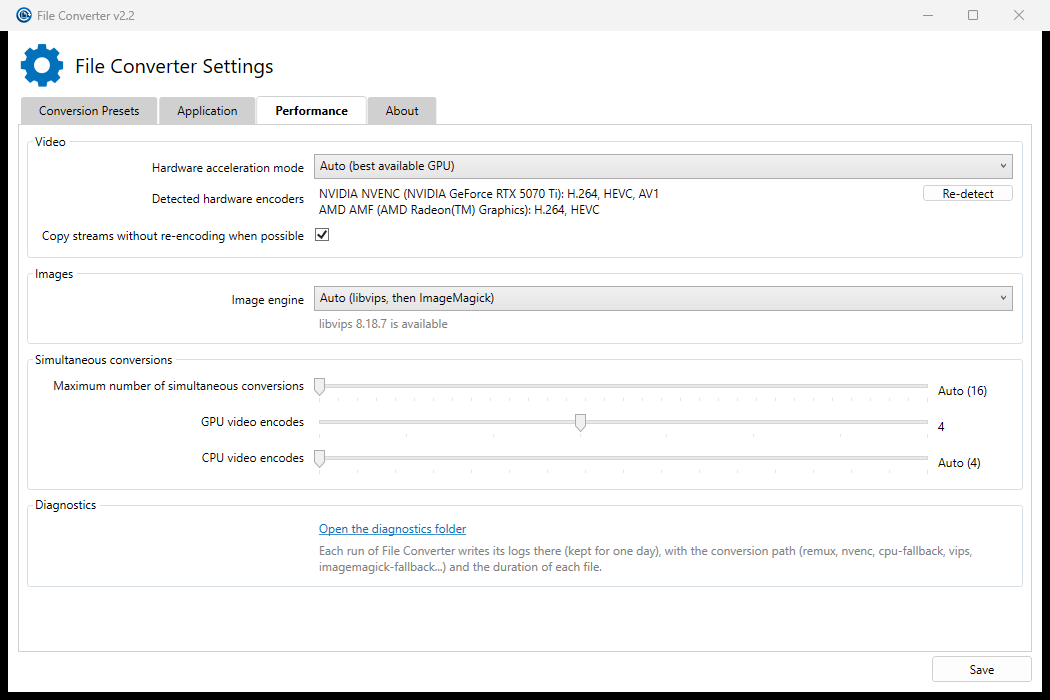
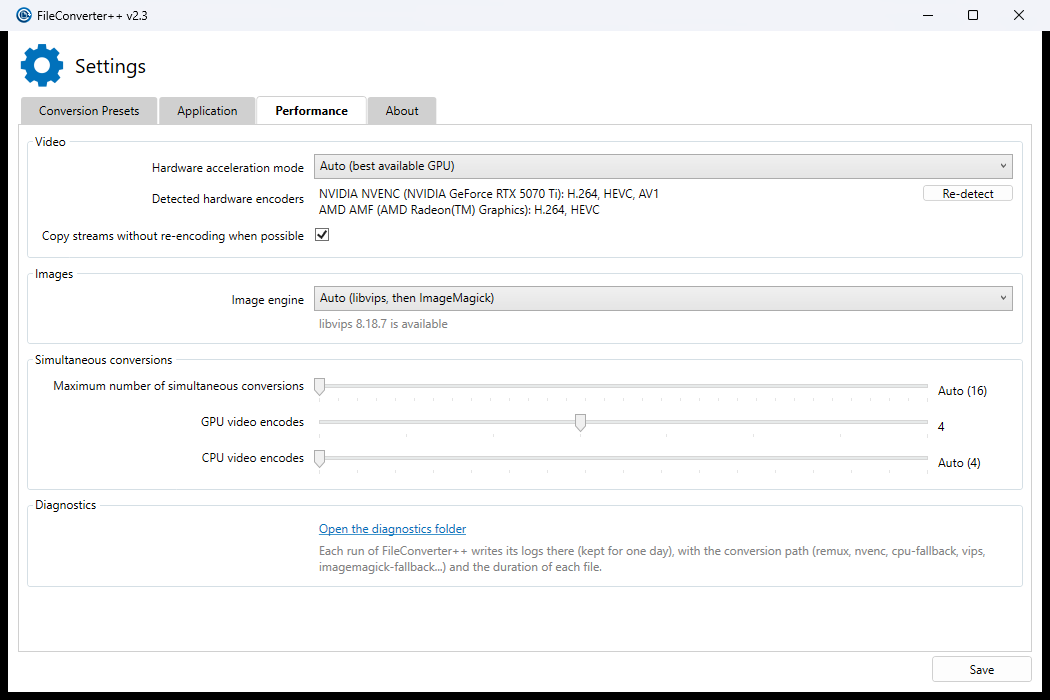
README: present FileConverter++ and what it changes from File Converter
Comparison table, benchmark results (and what isn't faster), each change
in plain words with links to docs/, fixes, security updates, install /
upgrade from File Converter, developer pointers; the original README's
sections follow, credited. Performance tab screenshot retaken with the
FileConverter++ name.

Changed region(s): [[0.3657, 0.78, 0.9448, 0.81], [0.061, 0.09, 0.2743, 0.12], [0.0305, 0.0, 0.1524, 0.03]]

diff --git a/README.md b/README.md
@@ -1,40 +1,133 @@
 # FileConverter++
 
-## Description
-
-**FileConverter++** is a faster fork of [File Converter](https://github.com/Tichau/FileConverter) by Adrien Allard: a very simple tool which allows you to convert and compress one or several file(s) using the context menu of windows explorer.
+**FileConverter++ is a faster version of [File Converter](https://github.com/Tichau/FileConverter)**, the tool by Adrien Allard that converts and compresses files from the Windows Explorer right-click menu. It works exactly the same way, with the same presets and settings, but uses your graphics card for videos, avoids re-encoding when it isn't needed, uses a much faster image engine and converts many files at once. On the benchmark below it is **2.5 times faster on average, and up to 35 times faster**.
 
 ![FileConverter++ Usage](Resources/FileConverterUsage.gif)
 
-Releases: [github.com/SwatX18/FileConverter/releases](https://github.com/SwatX18/FileConverter/releases). The original File Converter is at [file-converter.io](https://file-converter.io/?from=readme.md).
+**[Download FileConverter++ (latest release)](https://github.com/SwatX18/FileConverter/releases/latest)** · Windows 10/11, 64-bit · free and open source (GPL-3.0)
 
-The presets and their settings work as in File Converter: see its [wiki](https://github.com/Tichau/FileConverter/wiki).
+- [FileConverter++ vs. File Converter at a glance](#fileconverter-vs-file-converter-at-a-glance)
+- [How much faster?](#how-much-faster)
+- [What changed, in detail](#what-changed-in-detail)
+- [Install, upgrade, uninstall](#install-upgrade-uninstall)
+- [For developers](#for-developers)
 
-Installing FileConverter++ replaces File Converter (same installer identity, version 2.3.0 above the official 2.2) and keeps your settings and presets (`%LOCALAPPDATA%\FileConverter`). It installs in `C:\Program Files\FileConverter++` as `FileConverterPlusPlus.exe`, and checks for updates on this repository.
+## FileConverter++ vs. File Converter at a glance
 
-## What FileConverter++ changes
+| | File Converter 2.2 (original) | FileConverter++ 2.3 |
+|---|---|---|
+| Video encoding | CPU only by default (x264, x265) | **Graphics card** (NVIDIA NVENC, AMD AMF, Intel Quick Sync), detected automatically, with the CPU as fallback |
+| mkv → mp4, mov → mp4... | Always re-encodes the video | **Copies the streams** when they fit the new container (seconds instead of minutes, no quality loss) |
+| Images (JPEG, PNG, WebP, TIFF, AVIF) | ImageMagick | **libvips** (1.2 to 2.7 times faster per image, much more in batches), ImageMagick for every other format and as fallback |
+| Several files at once | 2 conversions at a time | **One per CPU core**, with separate limits for GPU encodes, CPU video encodes and Office documents |
+| Long video conversions | Can **hang forever** (ffmpeg blocked) | Fixed |
+| Two files giving the same output name (a.mp4 + a.mkv → Mp3) | One conversion fails | Second output named `a (2).mp3` |
+| PDF conversions | Need the Visual C++ Redistributable installed by another program | Everything included in the installer |
+| Security | Magick.NET 14.10.2 (144 known advisories), Ghostscript 10.02.1 (CVE-2024-29510) | Magick.NET 14.17.2, Ghostscript 10.08.0 |
+| Settings | Application tab | New **Performance** tab: detected GPUs, image engine, limits, diagnostics |
+| Logs | Conversion log | Plus the path each file took (remux, nvenc, cpu-fallback, vips...) and its duration |
+| Video codecs for Mp4 / Mkv presets | H.264 | **H.264, HEVC or AV1** (AV1 when your GPU can encode it) |
+| Tests | — | 168 unit tests, 40 integration tests, a benchmark suite |
 
-FileConverter++ makes conversions faster without changing how File Converter is used. Every optimization falls back automatically to the original behavior when it can't be used, and existing settings files keep working.
+Your presets, settings and right-click menu are the same. Every new behavior can be turned off in Settings → Performance, and every optimization **falls back automatically** to the original behavior: if a faster path can't be used for a file, or fails, the file is converted the original way.
 
-- **Hardware video encoding** (NVIDIA NVENC, AMD AMF, Intel Quick Sync), detected with a test encode and used by default, with the CPU encoder as fallback. Quality settings are calibrated to give the same quality as the CPU encoders. [docs/HARDWARE-ENCODING.md](docs/HARDWARE-ENCODING.md)
-- **Stream copy**: a conversion that only changes the container (mkv to mp4, mov to mp4...) copies the streams instead of re-encoding them. [docs/REMUXING.md](docs/REMUXING.md)
-- **libvips** for JPEG, PNG, WebP, TIFF and AVIF images, ImageMagick for everything else. [docs/IMAGES.md](docs/IMAGES.md)
-- **Parallel scheduling**: one conversion per CPU core, with separate limits for GPU encodes, CPU video encodes and Office documents. [docs/SCHEDULING.md](docs/SCHEDULING.md)
-- **Settings > Performance** tab and per-file diagnostics (conversion path and duration). [docs/SETTINGS.md](docs/SETTINGS.md)
+## How much faster?
 
-Measured on a Ryzen 9 7950X3D with an RTX 5070 Ti, against the original at its default settings ([bench/REPORT.md](bench/REPORT.md)):
+Measured on a Ryzen 9 7950X3D (16 cores) with an RTX 5070 Ti, NVMe SSD, both versions at their default settings, median of 3 runs, including the application start ([full report](bench/REPORT.md)):
 
-| Conversion | Original | This fork |
-|---|---:|---:|
-| Sintel 1080p, 15 min MKV → To Mp4 | 81.5 s | 2.3 s (stream copy) |
-| H.264 4K 30 s → To Mp4 | 20.2 s | 7.1 s (NVENC) |
-| 200 × 24 MP JPEG → Scale 25%/To Webp | 55.8 s | 3.6 s |
-| 10 × 24 MP WebP → To Png | 22.4 s | 4.9 s |
-| 20 × 24 MP JPEG → To Avif | 24.9 s | 10.7 s |
+| Conversion | File Converter | FileConverter++ | Speed-up | How |
+|---|---:|---:|---:|---|
+| Movie, 15 min 1080p MKV → To Mp4 | 81.5 s | **2.3 s** | 35× | stream copy |
+| 200 photos (24 MP JPEG) → Scale 25% / To Webp | 55.8 s | **3.6 s** | 16× | libvips + parallel |
+| 1080p H.264 MP4 → To Mkv | 10.7 s | **1.8 s** | 6× | stream copy |
+| iPhone HEVC 10-bit MOV → To Mp4 | 9.0 s | **1.5 s** | 6× | stream copy |
+| 10 WebP images (24 MP) → To Png | 22.4 s | **4.9 s** | 4.6× | libvips + parallel |
+| 20 photos → To Jpg | 3.6 s | **1.0 s** | 3.6× | libvips + parallel |
+| 4K H.264 30 s → To Mp4 | 20.2 s | **7.1 s** | 2.9× | NVENC |
+| 1080p H.264 MP4 → To Mp4 (re-encode) | 10.7 s | **4.3 s** | 2.5× | NVENC |
+| 20 photos → To Avif | 24.9 s | **10.7 s** | 2.3× | libvips + parallel (and 31 % smaller) |
+| Movie, 15 min MKV → To Mkv (re-encode) | 80.9 s | **36.4 s** | 2.2× | NVENC |
+| 1080p → Scale 720p / To Mp4 | 5.4 s | **2.9 s** | 1.9× | NVENC |
 
-Audio conversions and RAW / HEIC images are unchanged; extracting the audio of a video file takes about 0.3 s more (the file is probed to see whether its audio can be copied). The original also hangs on long video conversions (ffmpeg blocked on its progress output); this is fixed here.
+**Over the 24 benchmark cases: 2.5× faster on average (geometric mean), all 25 cases successful.** The gain depends on your hardware: no supported graphics card means CPU video encoding as before (still with stream copy, libvips and parallel batches), and fewer CPU cores means less parallelism.
 
-Tests: unit tests in `Tests/FileConverter.Tests` (xUnit, in the solution) and integration tests on a test corpus (`Tests/integration.ps1`), see [Tests/README.md](Tests/README.md). Benchmarks: [bench/README.md](bench/README.md).
+**Not faster** (to be honest about it):
+- **Audio conversions** (FLAC → MP3, WAV → FLAC...): unchanged, the encoders are the same.
+- **RAW and HEIC photos**: still converted by ImageMagick; 8 to 14 % slower for RAW and about 5 % for HEIC since the Magick.NET security update.
+- **Extracting the audio of a video** (video → To Mp3 / To Aac): about 0.3 s slower on short files, because the file is first analyzed to see whether its audio can be copied without re-encoding (which saves the whole encode on long files).
+
+**File sizes**: GPU encodes are calibrated to the same visual quality as the CPU encoders (measured with VMAF) and are usually smaller. Stream copies keep the source's quality and bitrate, so they can be larger than a re-encode; pick a "low quality" preset if you want a smaller file.
+
+## What changed, in detail
+
+### Videos: graphics card encoding
+
+MP4 and MKV conversions use the hardware encoder of your graphics card: **NVIDIA NVENC, AMD AMF or Intel Quick Sync**, for H.264, HEVC and AV1 (tested on NVIDIA and AMD; Intel Quick Sync is supported but wasn't available on the test machine). FileConverter++ tests which encoders actually work on your PC with a tiny test encode (under a second, cached until the driver or GPU changes), shows them in Settings → Performance, and picks the best one. The quality slider is mapped so that a GPU encode looks the same as the CPU encode the original would have made.
+
+If the GPU can't decode the source (ProRes, some 4:2:2 files) or the encode fails, it retries with CPU decoding, then with the original CPU encoder. Mp4 / Mkv presets also get a **video codec** choice (H.264, HEVC, AV1). Details: [docs/HARDWARE-ENCODING.md](docs/HARDWARE-ENCODING.md).
+
+### Videos and audio: stream copy instead of re-encoding
+
+When a conversion only changes the container (MKV → MP4, MOV → MP4, MP4 → MKV, M4A → AAC...) and the preset asks for nothing else (no resize, rotation, lower quality or other codec), FileConverter++ **copies the video and audio streams** instead of re-encoding them: it takes seconds, and there is no quality loss.
+- Audio the new container can't hold is re-encoded next to the copied video; text subtitles are converted (SRT → MP4 subtitles).
+- Only video that plays everywhere is copied: 4:2:0, and 8-bit for H.264. Professional formats (4:2:2, 4:4:4, 10-bit H.264) are re-encoded so the result plays on any device.
+- The result is checked (duration of every stream); if anything is wrong, the normal conversion runs instead.
+- Converting a file to its own format (MP4 → To Mp4) still re-encodes it, since that is the only reason to do it.
+
+Option: Settings → Performance → "Copy streams without re-encoding when possible". Details: [docs/REMUXING.md](docs/REMUXING.md).
+
+### Images: libvips
+
+JPEG, PNG, WebP, TIFF and AVIF images go through **libvips**, an image library built for speed: it decodes a photo at the reduced size directly when scaling down and processes it in a streaming pipeline. Output files are the same size and quality as with ImageMagick (AVIF 31 % smaller at the same quality). All other formats (RAW, HEIC, PSD, PDF, ICO, GIF...) and any libvips failure use ImageMagick as before. Option: Settings → Performance → "Image engine". Details: [docs/IMAGES.md](docs/IMAGES.md).
+
+### Batches: one conversion per CPU core
+
+The original converts 2 files at a time. FileConverter++ runs **one conversion per physical core** by default, with separate limits so that heavy jobs don't fight each other: GPU video encodes (4), CPU video encodes (cores ÷ 4, between 2 and 4), Office documents (2), and at most 2 large files at a time per hard disk drive. Jobs start as soon as they are ready instead of waiting for the whole batch to be prepared. Details: [docs/SCHEDULING.md](docs/SCHEDULING.md).
+
+### Settings → Performance and diagnostics
+
+![Settings → Performance](docs/images/settings-performance.png)
+
+A new tab groups the new settings: hardware acceleration mode and the detected encoders (with a Re-detect button), stream copy, image engine and the simultaneous conversion limits. The diagnostics logs now record, for every file, the path it took (`remux`, `nvenc`, `cpu-fallback`, `vips`, `imagemagick-fallback`...) and how long it took, and a summary per batch. Details: [docs/SETTINGS.md](docs/SETTINGS.md).
+
+### Fixes
+
+- **Long video conversions could hang forever**: ffmpeg's progress output was never read, so ffmpeg blocked once the buffer was full (any re-encode longer than about 10 s on the test machine). Fixed.
+- **Opus / WebM conversions reported as failed** because of a harmless ffmpeg 8 message. Fixed.
+- **Two files of a batch with the same output name** (a.mp4 and a.mkv → To Mp3): the second conversion failed. Now named `a (2).mp3`.
+- **PDF conversions needed the Visual C++ Redistributable**, installed separately by some other program: Ghostscript depends on it. It is now included.
+- **French translation**: the hardware acceleration, preset folder, import / export, duplicate and clipboard texts were in English.
+- The Apps list showed no install location.
+
+### Security and bundled components
+
+- **Magick.NET** (ImageMagick) updated from 14.10.2 to 14.17.2: 144 known security advisories fixed, most of them high severity, in the engine that opens any image you right-click.
+- **Ghostscript** (PDF) updated from 10.02.1 to 10.08.0: fixes CVE-2024-29510, a sandbox escape through crafted PDF / EPS files exploited in the wild, and the later fixes.
+- **Everything is included**: ffmpeg 8.0.1 and ffprobe, libvips 8.18.7, ImageMagick, Ghostscript and the Visual C++ runtime are installed with FileConverter++, with their licenses and source information. Nothing else needs to be installed (only Microsoft Office, for Word / Excel / PowerPoint conversions, as before).
+
+## Install, upgrade, uninstall
+
+1. Download `FileConverterPlusPlus-<version>-x64-setup.msi` from the [releases](https://github.com/SwatX18/FileConverter/releases/latest) and run it.
+2. The installer is not code-signed: Windows shows "Unknown publisher" (and SmartScreen may ask you to confirm).
+3. In Explorer, right-click files → **Show more options** (Windows 11) → **FileConverter++**.
+
+- **Coming from File Converter?** Installing FileConverter++ replaces it and keeps your settings and custom presets (`%LOCALAPPDATA%\FileConverter`). The two can't be installed side by side.
+- **Updates**: FileConverter++ checks this repository for new versions (Settings → Application → "Automatically check for updates").
+- **Uninstall**: Settings → Apps → FileConverter++ → Uninstall.
+- How to use the presets and customize them: File Converter's [wiki](https://github.com/Tichau/FileConverter/wiki) applies as is.
+- Problems with FileConverter++: [report an issue here](https://github.com/SwatX18/FileConverter/issues).
+
+## For developers
+
+- Build: [docs/BUILD.md](docs/BUILD.md) (Visual Studio 2022, .NET Framework 4.8, WiX 5; one MSBuild command builds the app, the tests and the MSI). Executable: `FileConverterPlusPlus.exe`.
+- Tests: 168 xUnit unit tests (`Tests/FileConverter.Tests`, in the solution) and 40 integration tests that convert a generated test corpus and check every output (`Tests/integration.ps1`): [Tests/README.md](Tests/README.md).
+- Benchmarks: [bench/README.md](bench/README.md), results in [bench/REPORT.md](bench/REPORT.md).
+- Architecture and the design of each change: [docs/](docs/) (ARCHITECTURE, HARDWARE-ENCODING, REMUXING, IMAGES, SCHEDULING, SETTINGS).
+- All changes are listed in the [CHANGELOG](CHANGELOG.md). Development happens on the `fast-convert` branch.
+
+## About the original project
+
+FileConverter++ is based on [File Converter](https://github.com/Tichau/FileConverter) by Adrien Allard ([file-converter.io](https://file-converter.io/?from=readme.md)), which did all the hard work: the right-click integration, the presets, the conversions and the translations. The sections below come from its README.
 
 ## Donate (to File Converter's author)
 
